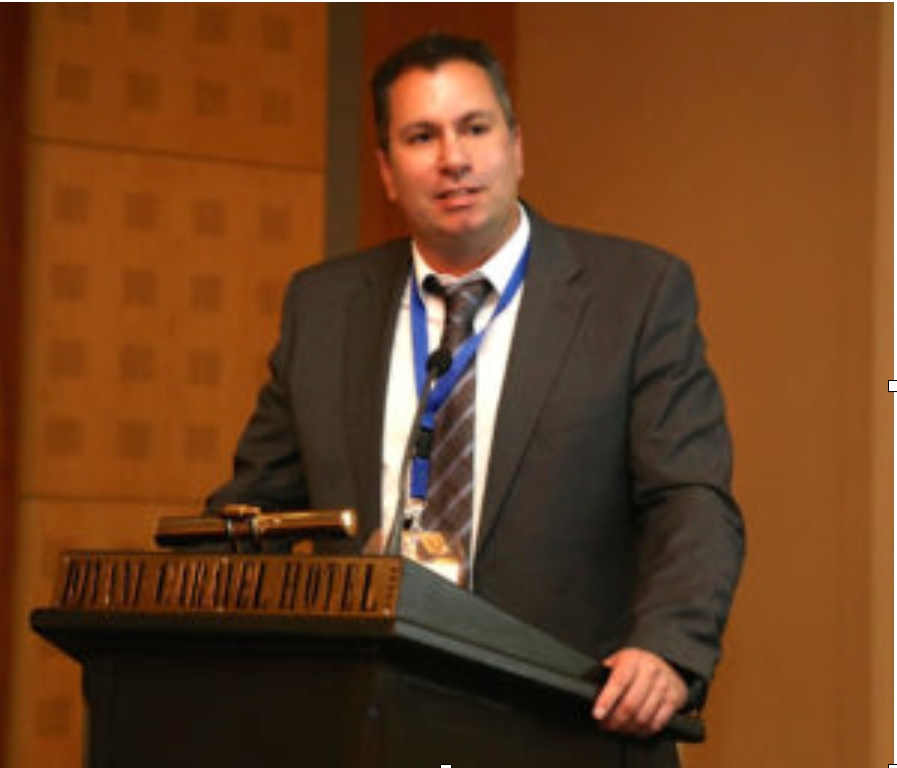
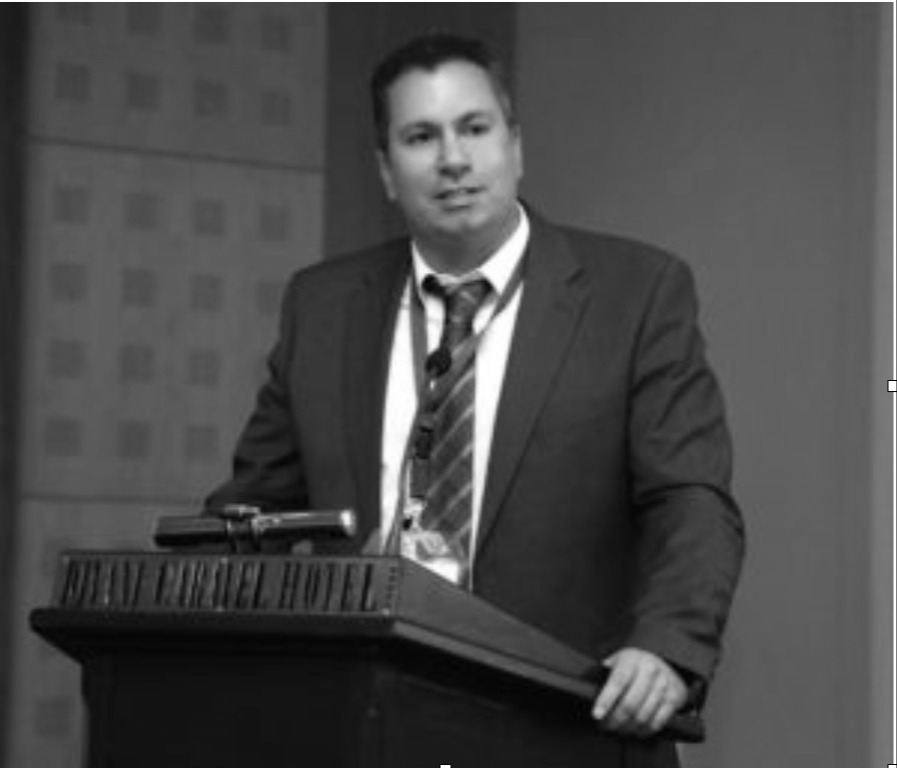
Small changes to the order

diff --git a/Reports/Classification_Report/biography.tex b/Reports/Classification_Report/biography.tex
@@ -15,17 +15,6 @@
     intelligent wearable system for enhanced personalized gait rehabilitation.
 \end{IEEEbiography}
 
-\begin{IEEEbiography}[{\includegraphics[width=1in,height=1.25in,clip,keepaspectratio]{Images/a3.jpg}}]
-    {SURAPONG CHATPUN} received the B.Eng. degree in mechanical engineering from Chulalongkorn University, Thailand, in 1996, and the M.Eng. 
-    degree from the University of Tokyo,Japan, in 2003, and the Ph.D. degree in bioengineering from the University of California, USA,
-    in 2010. He currently leads the Cardiovascular Engineering Research Laboratory (CERLab) at the Faculty of Medicine, Prince of Songkla 
-    University. His research interests include applying engineering approaches, such as continuum mechanics, numerical methods (e.g.FEM), 
-    fluid mechanics (e.g. CFD), image processing and computer-aided design, combined with life sciences knowledge and available technologies
-    to enhance understanding of circulatory system’s function and mechanisms in both normal and pathological conditions. He also designs and invents
-    medical devices not only for cardiovascular applications but also for other clinical areas, such as rehabilitation and orthopedics. He is also 
-    coordinating a Horizon Europe: gaitREHub project in the field of the intelligent wearable system for enhanced personalized gait rehabilitation.
-\end{IEEEbiography}
-
 \begin{IEEEbiography}[{\includegraphics[width=1in,height=1.25in,clip,keepaspectratio]{Images/a5.jpg}}]
     {ANDREAS MENYCHTAS} is a Senior Software and Research Engineer. He studied at the National Technical University of Athens (NTUA) where he received his 
     Electrical \& Computer Engineering Diploma and his Ph.D. He is currently Assistant Professor and member of the Computational Biomedicine Laboratory in the 
@@ -52,4 +41,15 @@
     He has been engaged as principal investigator in many European and National Research programs. His published scientific work includes five (5) books and more than 
     400 journal and conference papers, while has received more than 10000 citations on his published work (h-index=45). He is a senior member of the IEEE, ACM, SPIE, 
     president of IFIP Working Group WG12.5 (AI Applications) and vice president of IEEE EMBS Greek chapter.
+\end{IEEEbiography}
+
+\begin{IEEEbiography}[{\includegraphics[width=1in,height=1.25in,clip,keepaspectratio]{Images/a3.jpg}}]
+    {SURAPONG CHATPUN} received the B.Eng. degree in mechanical engineering from Chulalongkorn University, Thailand, in 1996, and the M.Eng. 
+    degree from the University of Tokyo,Japan, in 2003, and the Ph.D. degree in bioengineering from the University of California, USA,
+    in 2010. He currently leads the Cardiovascular Engineering Research Laboratory (CERLab) at the Faculty of Medicine, Prince of Songkla 
+    University. His research interests include applying engineering approaches, such as continuum mechanics, numerical methods (e.g.FEM), 
+    fluid mechanics (e.g. CFD), image processing and computer-aided design, combined with life sciences knowledge and available technologies
+    to enhance understanding of circulatory system’s function and mechanisms in both normal and pathological conditions. He also designs and invents
+    medical devices not only for cardiovascular applications but also for other clinical areas, such as rehabilitation and orthopedics. He is also 
+    coordinating a Horizon Europe: gaitREHub project in the field of the intelligent wearable system for enhanced personalized gait rehabilitation.
 \end{IEEEbiography}

diff --git a/Reports/Classification_Report/access.tex b/Reports/Classification_Report/access.tex
@@ -32,10 +32,10 @@
 \author{
 \uppercase{Stamatios Orfanos\authorrefmark{1}~\href{https://orcid.org/0009-0005-5042-9408}{\includegraphics[height=0.6ex]{orcid_logo.png}}},
 \uppercase{Thanita Sanghan\authorrefmark{2}~\href{https://orcid.org/0009-0005-1693-5673}{\includegraphics[height=0.6ex]{orcid_logo.png}}},
-\uppercase{Surapong Chatpun\authorrefmark{2}~\href{https://orcid.org/0000-0002-6888-5170}{\includegraphics[height=0.6ex]{orcid_logo.png}}},
 \uppercase{Andreas Menychtas\authorrefmark{3}~\href{https://orcid.org/0000-0002-4510-5522}{\includegraphics[height=0.6ex]{orcid_logo.png}}},
 \uppercase{Christos Panagopoulos\authorrefmark{1}~\href{https://orcid.org/}{\includegraphics[height=0.6ex]{orcid_logo.png}}},
-\uppercase{Ilias Maglogiannis\authorrefmark{3}~\href{https://orcid.org/0000-0003-2860-399X}{\includegraphics[height=0.6ex]{orcid_logo.png}}}
+\uppercase{Ilias Maglogiannis\authorrefmark{3}~\href{https://orcid.org/0000-0003-2860-399X}{\includegraphics[height=0.6ex]{orcid_logo.png}}},
+\uppercase{Surapong Chatpun\authorrefmark{2}~\href{https://orcid.org/0000-0002-6888-5170}{\includegraphics[height=0.6ex]{orcid_logo.png}}}
 }
 
 \address[1]{BioΑssist SA, Kastritsiou 4, Rio 265 04, Greece}
